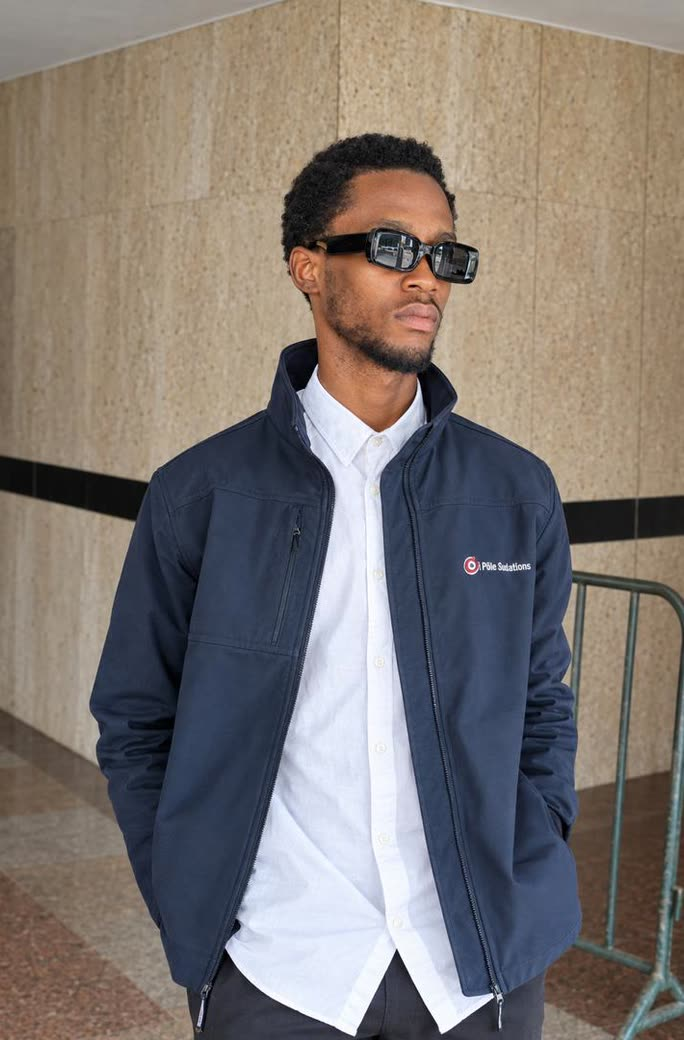
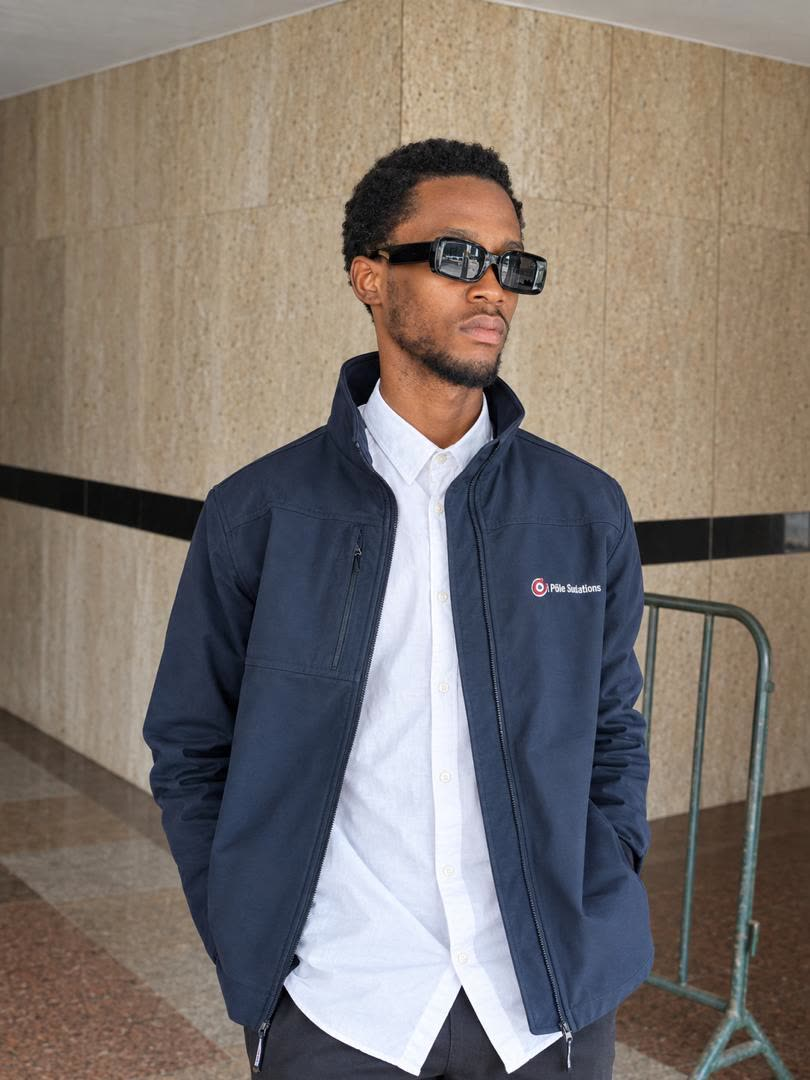
Rend son format portrait à l'en-tête À propos et y réunit les quatre clichés
Même décalage qu'à la bibliographie, en miroir : les originaux de
medias-sources/images/about sont en portrait (environ 3/4) mais les copies
publiées avaient été recadrées en paysage 544 x 408, que le cadre 4/3
affichait tant bien que mal.

Les trois originaux sont republiés à leur taille native, et img33 les
rejoint : pris en portrait lui aussi, il n'avait plus sa place dans
l'en-tête paysage de la bibliographie.

Le cadre passe en 3/4 et laisse voir chaque cliché entier. Le texte
alternatif ne parle plus d'exposition : img33 n'en est pas une.

diff --git a/client/src/pages/AboutPage.tsx b/client/src/pages/AboutPage.tsx
@@ -6,13 +6,18 @@ import ContactCTA from "../components/ContactCTA";
 import Slideshow from "../components/Slideshow";
 
 /**
- * Clichés d'exposition qui défilent dans l'en-tête, dans l'ordre d'affichage.
+ * Clichés qui défilent dans l'en-tête, dans l'ordre d'affichage.
  * `img39` n'existe pas dans la série fournie : la numérotation saute de 38 à 40.
+ *
+ * Toute la série est en portrait, d'où le cadre vertical côté CSS. `img33`
+ * vient du dossier des portraits : pris en portrait lui aussi, il n'avait plus
+ * sa place dans l'en-tête paysage de la bibliographie.
  */
-const EXPOSITIONS = [
+const PORTRAITS = [
   "/images/about/img37.jpeg",
   "/images/about/img38.jpeg",
   "/images/about/img40.jpeg",
+  "/images/portraits/img33.jpeg",
 ];
 
 const APPROACH = [
@@ -42,8 +47,8 @@ export default function AboutPage() {
         <div className="about-hero__media reveal">
           <span className="corner corner--tl" aria-hidden="true" />
           <Slideshow
-            images={EXPOSITIONS}
-            alt={`${name} devant ses œuvres en exposition`}
+            images={PORTRAITS}
+            alt={`Portrait de ${name}`}
             className="about-hero__slideshow"
           />
           <span className="corner corner--br" aria-hidden="true" />

diff --git a/client/src/styles/about.css b/client/src/styles/about.css
@@ -7,7 +7,12 @@
 
 .about-hero { max-width: var(--max-w); margin: 0 auto; padding: 60px var(--gutter) 40px; display: grid; grid-template-columns: 1.1fr 1fr; gap: clamp(28px, 6vw, 80px); align-items: center; }
 .about-hero__media { position: relative; padding: 18px; }
-.about-hero__media img { width: 100%; aspect-ratio: 4 / 3; object-fit: cover; border-radius: var(--radius-md); box-shadow: var(--shadow-lg); }
+/*
+ * Cadre vertical : toute la série est en portrait, autour de 3/4 (0,75 à 0,77).
+ * `contain` plutôt que `cover` pour que chaque cliché se voie entier ; l'écart
+ * de format entre eux est si faible que les bandes restent imperceptibles.
+ */
+.about-hero__media img { width: 100%; aspect-ratio: 3 / 4; object-fit: contain; border-radius: var(--radius-md); box-shadow: var(--shadow-lg); }
 /* Habillage du diaporama d'atelier — mécanique dans `.slideshow` (base.css).
    Arrondi, ombre et découpe passent sur le conteneur, pas sur les clichés :
    le zoom du cliché actif déborderait du cadre et l'ombre baverait aux angles.
